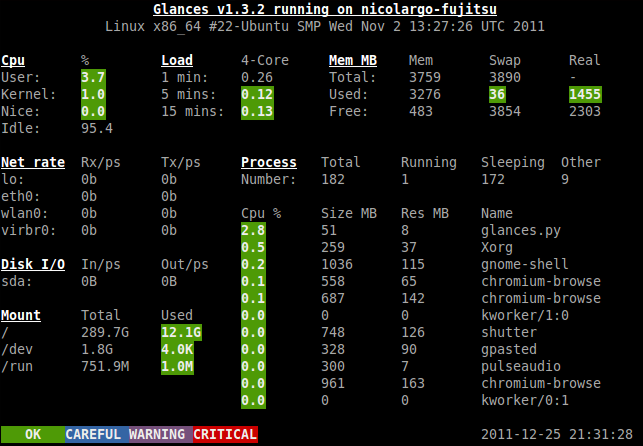
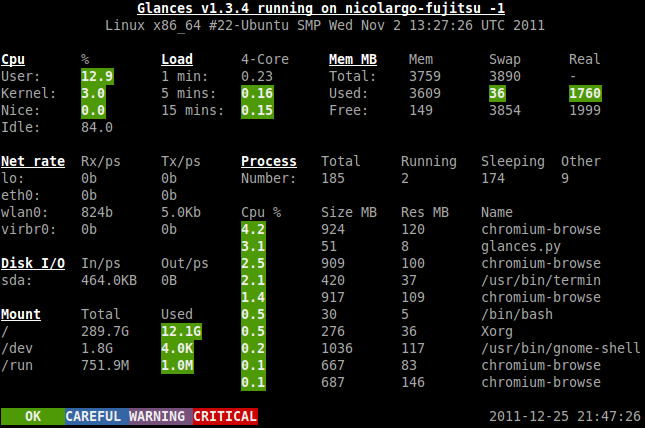
Update screenshot

diff --git a/src/glances.py b/src/glances.py
@@ -516,7 +516,7 @@ class glancesScreen():
 		screen_y = self.screen.getmaxyx()[0]
 		if ((screen_y > self.host_y) 
 			and (screen_x > self.host_x+79)):
-			host_msg = "Glances v"+self.__version+" running on "+host['hostname']+" "+str(self.pressedkey) 
+			host_msg = "Glances v"+self.__version+" running on "+host['hostname'] # +" "+str(self.pressedkey) 
 			self.term_window.addnstr(self.host_y, self.host_x+int(screen_x/2)-len(host_msg)/2, host_msg, 80, self.title_color if self.hascolors else 0)
 
 		
